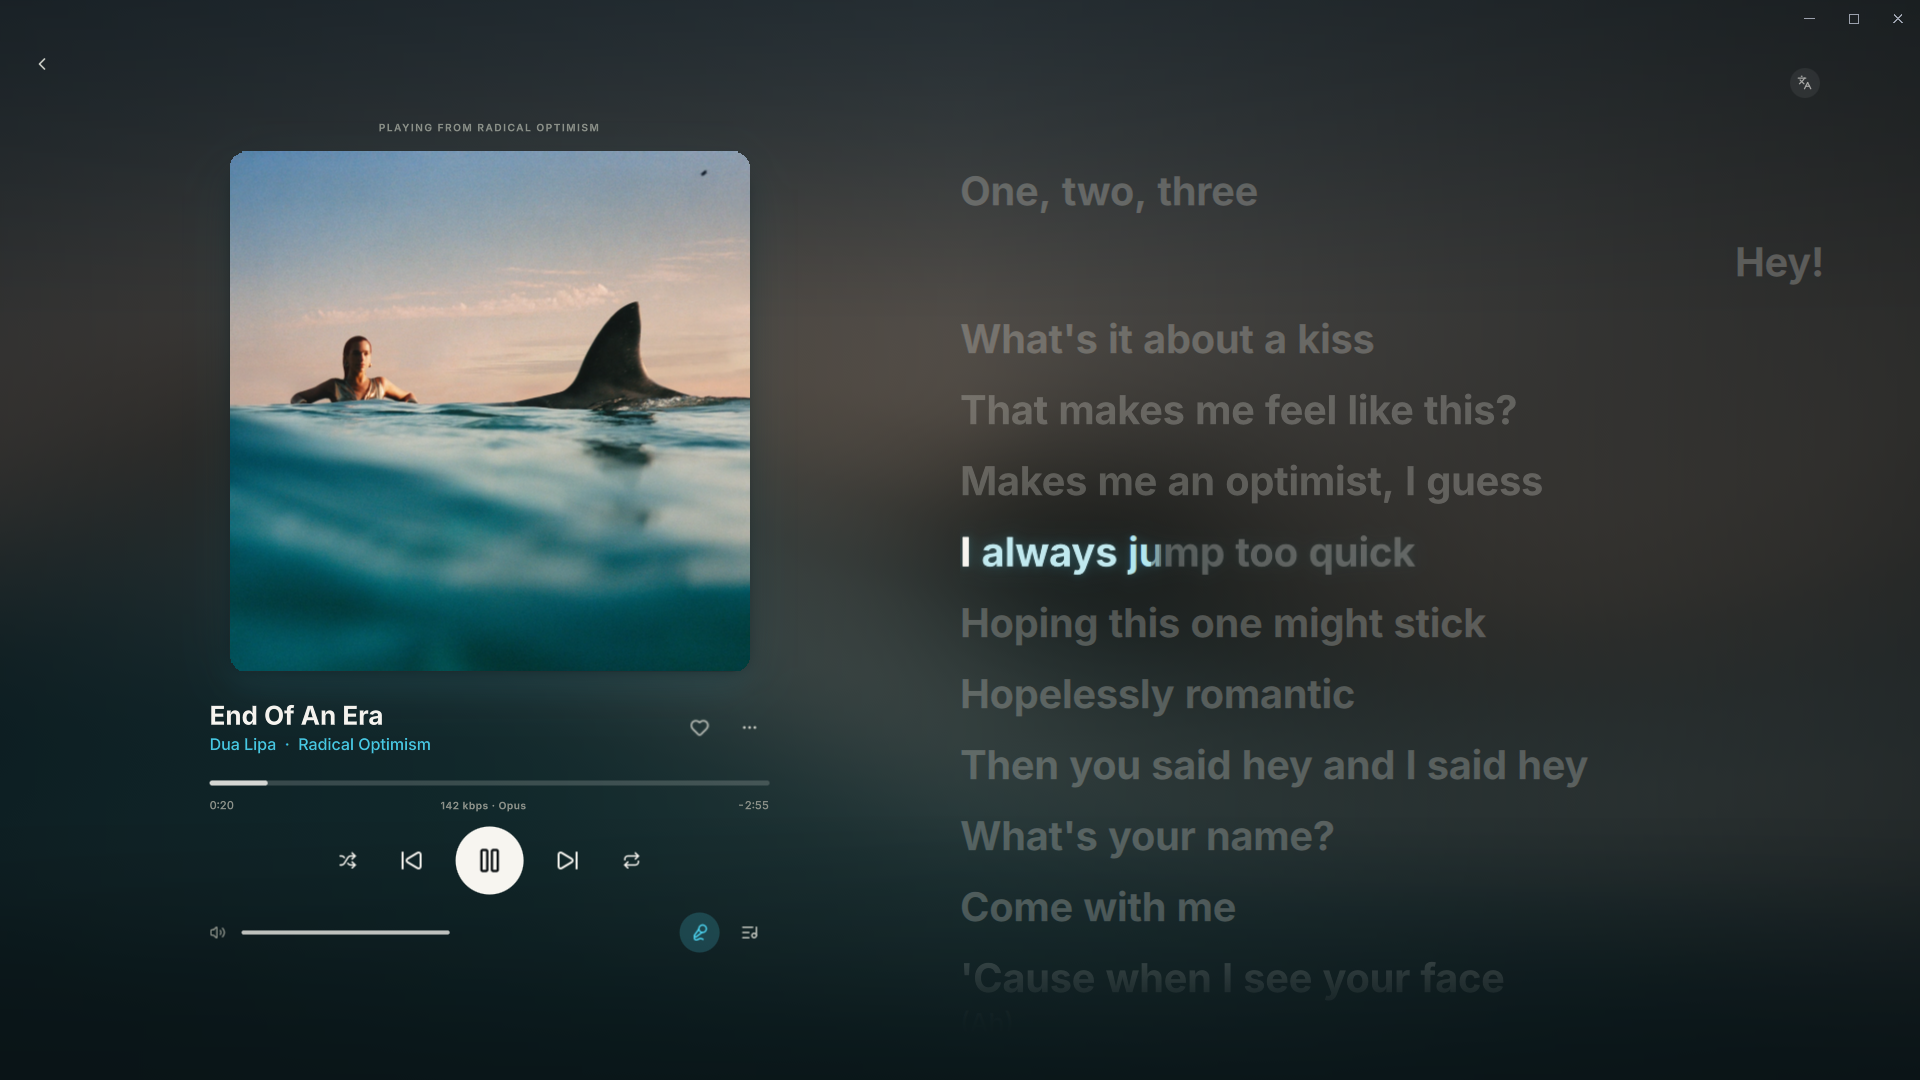
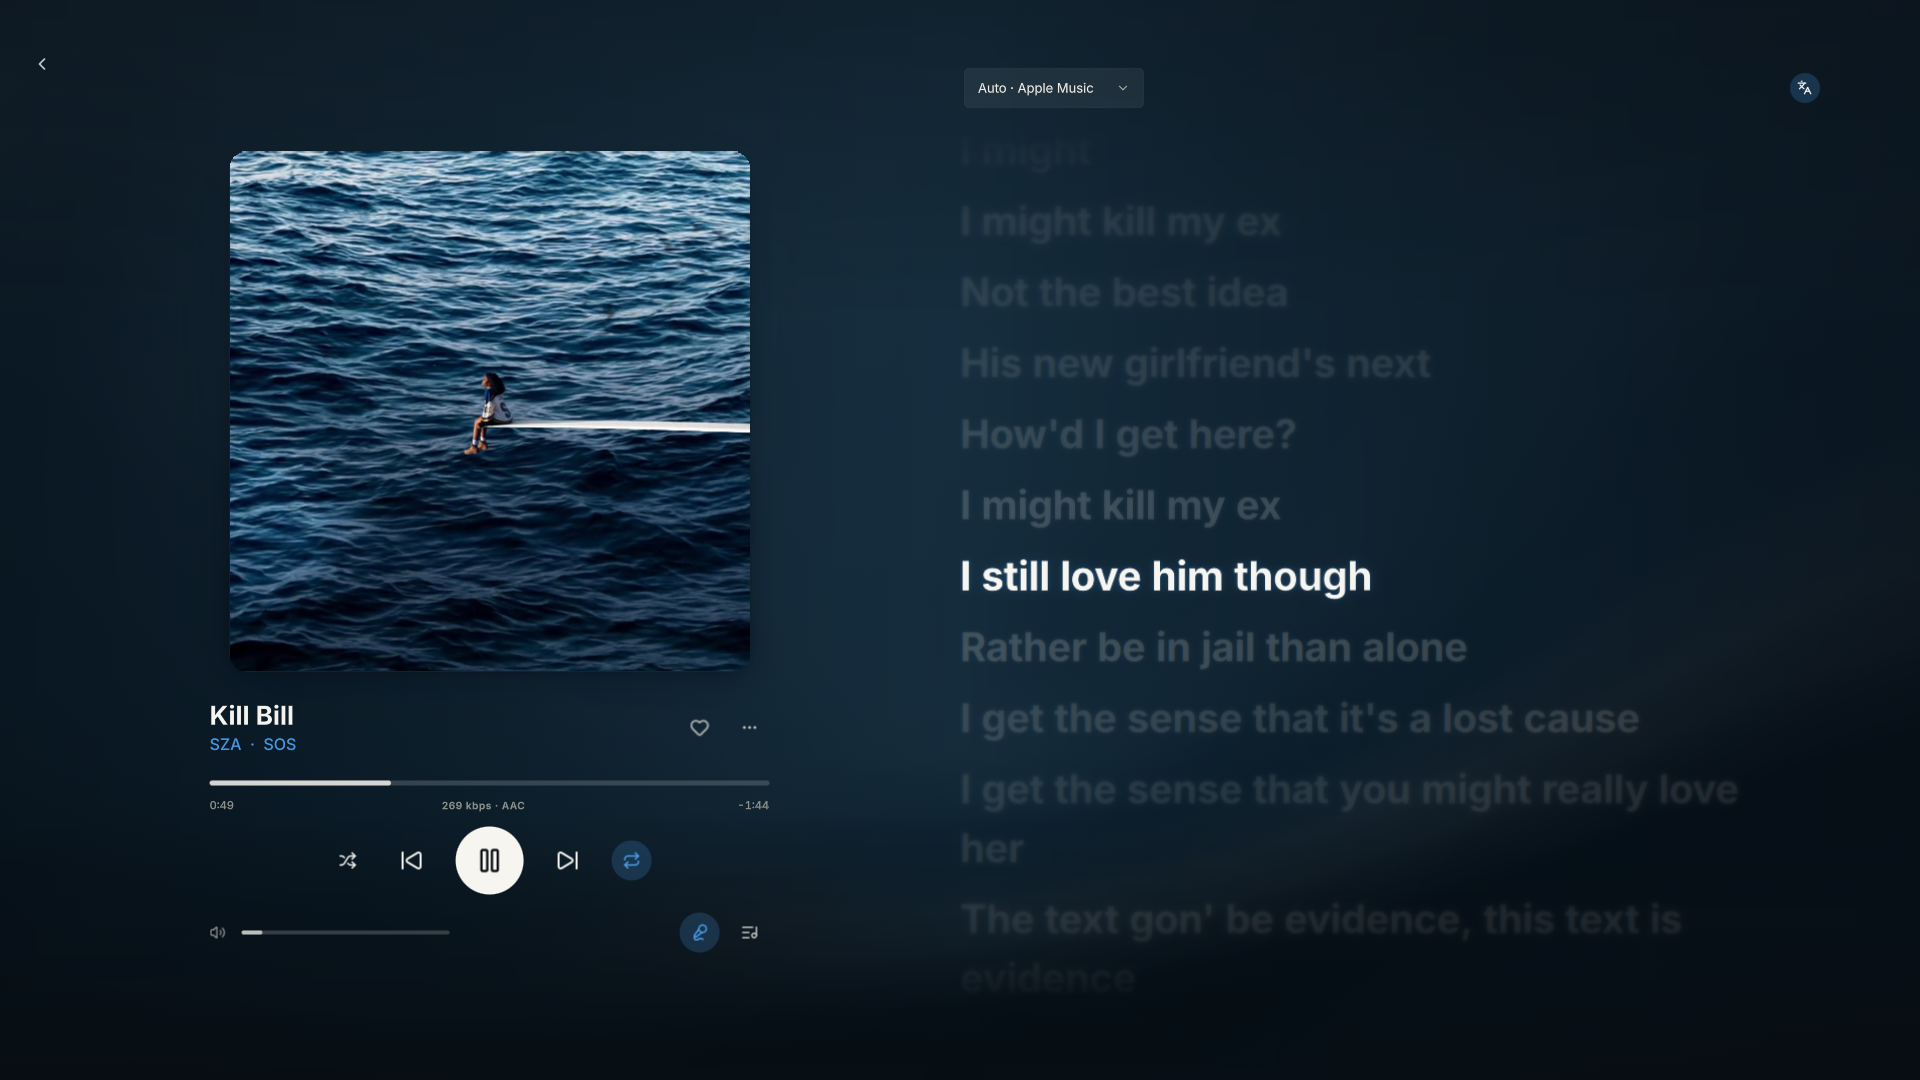
Refresh README screenshots and document Apple Music

diff --git a/README.md b/README.md
@@ -3,7 +3,7 @@
 
 # Orchard
 
-**Your YouTube Music library, with more control over how you listen.**
+**Your YouTube Music or Apple Music library, with more control over how you listen.**
 
 Adaptive mixes · Best Mix queues · Synced lyrics · Lossless audio · Orchard Connect
 
@@ -23,24 +23,25 @@ Adaptive mixes · Best Mix queues · Synced lyrics · Lossless audio · Orchard 
   </p>
 </div>
 
-Orchard is an open-source music player for Windows, Linux, and Android. Browse your YouTube Music recommendations, library, and playlists, shape the sound, and move playback between your computer and phone. The desktop app uses a native Qt interface and Rust audio core.
+Orchard is an open-source music player for Windows, Linux, and Android. Browse your YouTube Music or Apple Music recommendations, library, and playlists, shape the sound, and move playback between your computer and phone. The desktop app uses a native Qt interface and Rust audio core.
 
-Orchard is an independent project and is not affiliated with or endorsed by Google, YouTube, or Qobuz.
+Orchard is an independent project and is not affiliated with or endorsed by Google, YouTube, Apple, or Qobuz.
 
 ## Screenshots
 
 <div align="center">
-  <img src="docs/screenshots/home.png" width="100%" alt="Orchard desktop Home with recommendations, playlists, and the player bar">
+  <img src="docs/screenshots/lyrics.png" width="100%" alt="Fullscreen player with album artwork and synced Apple Music lyrics">
+  <p>Follow along with synced lyrics</p>
 </div>
 
 <table>
   <tr>
-    <td width="50%"><img src="docs/screenshots/artist.png" alt="Artist page with popular songs and the latest release"></td>
-    <td width="50%"><img src="docs/screenshots/lyrics.png" alt="Fullscreen player with album artwork and synced lyrics"></td>
+    <td width="50%"><img src="docs/screenshots/artist.png" alt="Apple Music artist page with an animated header, the latest release, and top songs"></td>
+    <td width="50%"><img src="docs/screenshots/album.png" alt="Apple Music album page with the playing song highlighted"></td>
   </tr>
   <tr>
     <td align="center">Explore artists and their music</td>
-    <td align="center">Follow along with synced lyrics</td>
+    <td align="center">Browse albums from Apple Music or YouTube Music</td>
   </tr>
 </table>
 
@@ -68,7 +69,7 @@ To try desktop canary builds, turn on **Canary builds** under **Settings → Gen
 - **Gapless playback and autoplay:** minimize pauses between tracks and keep listening when the queue ends.
 - **Editable queue:** add, remove, and drag songs into the order you want.
 
-Desktop Adaptive mix requires a GPU with WebGPU support and FFmpeg. Turn the Audio Engine off to enable it, and choose a streaming quality other than MAX. See [Crossfade and gapless playback](docs/app/crossfade.md) and [Manage the queue](docs/app/queue.md) for setup and requirements.
+Desktop Adaptive mix requires FFmpeg. A GPU with WebGPU support speeds up beat detection but is optional. Turn the Audio Engine off to enable it, and choose a streaming quality other than MAX. See [Crossfade and gapless playback](docs/app/crossfade.md) and [Manage the queue](docs/app/queue.md) for setup and requirements.
 
 https://github.com/user-attachments/assets/983fb4b1-e0ff-4f90-9ff5-b92702664a3d
 
@@ -96,11 +97,22 @@ See [Audio Engine and equalizer](docs/app/audio-engine.md) and [Streaming qualit
 
 See [Offline mode and downloads](docs/app/offline-mode.md), [Local files](docs/app/local-files.md), [Lyrics](docs/app/lyrics.md), and [AI-generated music](docs/app/ai-music.md).
 
+### Play from Apple Music
+
+- **Apple Music as your music source:** connect your Apple Music subscription and choose **Apple** under **Settings → General → Music source**. Home, search, artist, album, and playlist pages, and your library, come from Apple Music.
+- **Apple Music playback:** songs stream from Apple Music at 256 kbps AAC on Windows, Linux, and Android, through the same player as everything else.
+- **Mixes from Apple's analysis:** Adaptive mix, Best Mix, crossfade, and gapless playback work with Apple Music songs. Orchard uses Apple's own beat and vocal analysis, so mixes are ready sooner.
+- **Apple Music lyrics:** synced lyrics come from Apple Music while you are signed in.
+- **Apple Music videos:** watch videos from Apple Music on desktop, up to 1080p on Windows with HDCP displays and 486p on Linux.
+- **Library changes:** love songs, create playlists, and add songs to your Apple Music playlists from Orchard.
+
+Orchard never mixes the two services on one page. Apple Music playback needs Widevine: on Linux, install Google Chrome or Chromium with Widevine; on Windows, open Microsoft Edge or Google Chrome once. Android uses the phone's own Widevine. An Orchard account is also required. See [Integrations](docs/app/integrations.md#play-apple-music-songs).
+
 ### Listen across devices
 
 - **Orchard Connect:** control playback on your computer from your phone, or on your phone from your computer, on the same network or over the internet.
 - **Desktop help for mobile mixes:** a connected computer can prepare Adaptive mixes while the phone keeps playing.
-- **Discord Rich Presence:** show your current song and artwork on your profile.
+- **Discord Rich Presence:** show your current song and artwork on your profile, labeled YouTube Music or Apple Music.
 - **Last.fm:** send your listening history to your Last.fm account.
 - **Desktop controls:** keyboard shortcuts, media keys, and system tray support.
 
@@ -108,14 +120,15 @@ See [Orchard Connect](docs/app/connect.md), [Integrations](docs/app/integrations
 
 ## Orchard Mobile for Android
 
-Orchard Mobile plays music directly on your phone. It includes on-device Smart Crossfade, synced lyrics, animated artwork, Android Auto, Chromecast, and Orchard Connect.
+Orchard Mobile plays music directly on your phone, from YouTube Music or Apple Music. It includes on-device Smart Crossfade, synced lyrics, animated artwork, Android Auto, Chromecast, and Orchard Connect.
 
 <div align="center">
-  <img src="mobile/docs/screenshots/home.png" width="19%" alt="Android Home with recommendations and playlists">
-  <img src="mobile/docs/screenshots/now-playing.png" width="19%" alt="Android Now Playing with artwork and Hi-Res audio information">
-  <img src="mobile/docs/screenshots/lyrics.png" width="19%" alt="Android synced lyrics">
-  <img src="mobile/docs/screenshots/queue.png" width="19%" alt="Android queue with sleep timer, autoplay, and song controls">
-  <img src="mobile/docs/screenshots/album.png" width="19%" alt="Android album page with Qobuz Hi-Res quality">
+  <img src="mobile/docs/screenshots/home.png" width="16%" alt="Android Home with Apple Music playlists and recommendations">
+  <img src="mobile/docs/screenshots/now-playing.png" width="16%" alt="Android Now Playing with artwork and audio quality information">
+  <img src="mobile/docs/screenshots/lyrics.png" width="16%" alt="Android synced lyrics from Apple Music">
+  <img src="mobile/docs/screenshots/queue.png" width="16%" alt="Android queue with song controls">
+  <img src="mobile/docs/screenshots/artist.png" width="16%" alt="Android Apple Music artist page with latest release and top songs">
+  <img src="mobile/docs/screenshots/album.png" width="16%" alt="Android Apple Music album page">
 </div>
 
 <p align="center">
@@ -130,12 +143,12 @@ To connect your phone and computer:
 3. On desktop, select the cast button in the player bar. On Android, open the device picker in the full player.
 4. Select the device you want to control.
 
-Your Orchard account connects the devices. Your YouTube Music and Qobuz sign-ins stay on their own device. See [Orchard Connect](docs/app/connect.md) for playback handoff and troubleshooting.
+Your Orchard account connects the devices. Your YouTube Music, Apple Music, and Qobuz sign-ins stay on their own device. Your phone can start Apple Music songs on your computer when both are connected to Apple Music. Apple Music songs on the phone play only on the phone. See [Orchard Connect](docs/app/connect.md) for playback handoff and troubleshooting.
 
 ## Getting started
 
 1. Install and open Orchard.
-2. Select **Continue with Google** and finish signing in to YouTube Music.
+2. Select **Continue with Google** and finish signing in to YouTube Music. To use Apple Music, connect it under **Settings → Integrations** and choose **Apple** as the music source.
 3. Pick a song from **Home**, or search for an artist, album, or playlist.
 4. Open **Settings** from your account button to choose playback quality, sound settings, and appearance.
 
